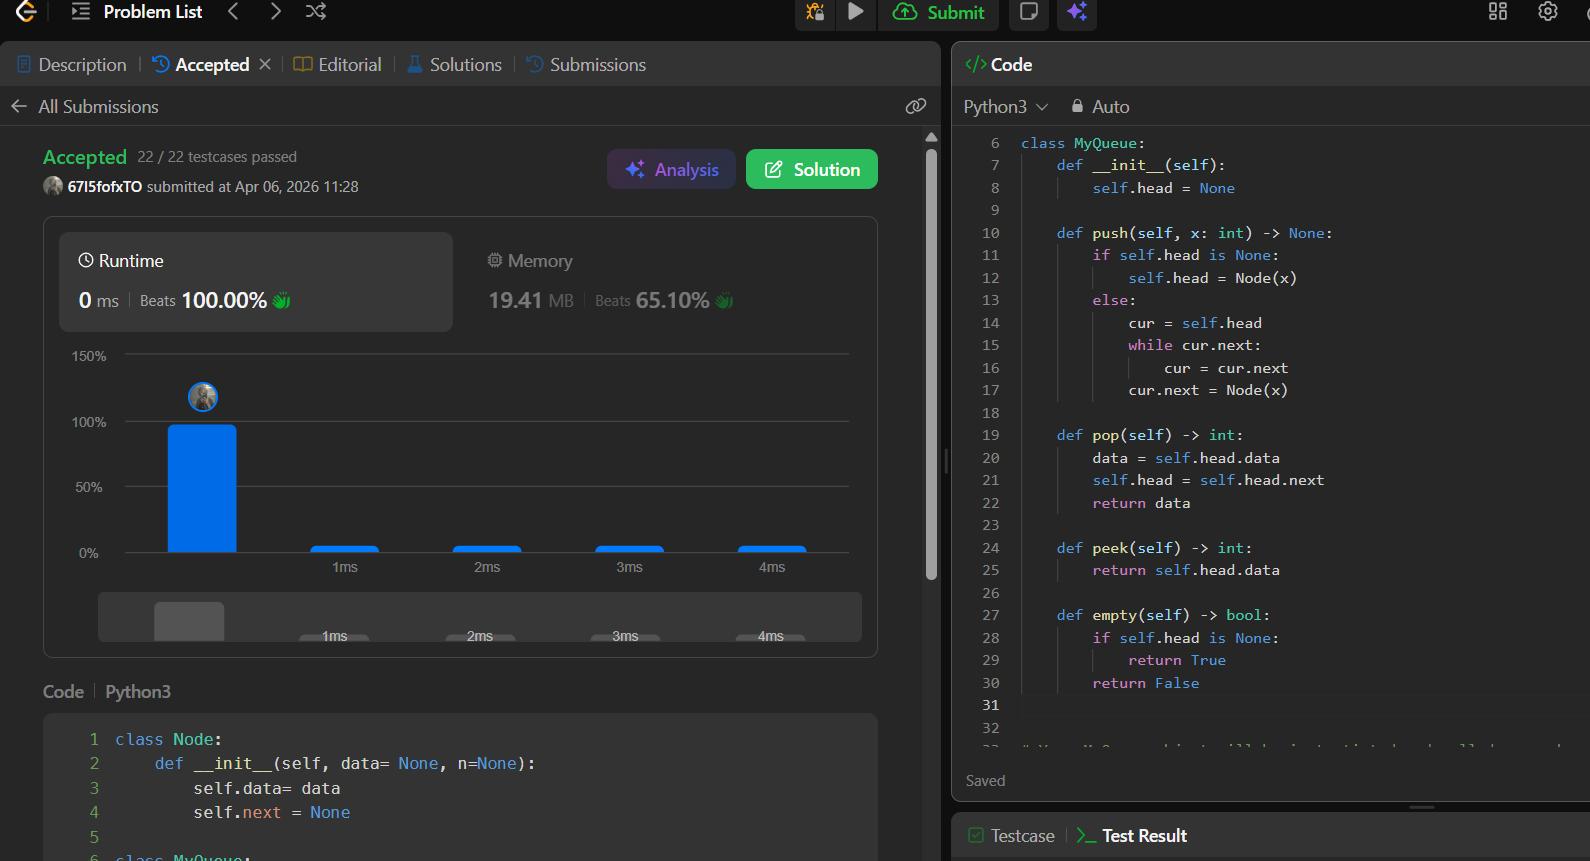
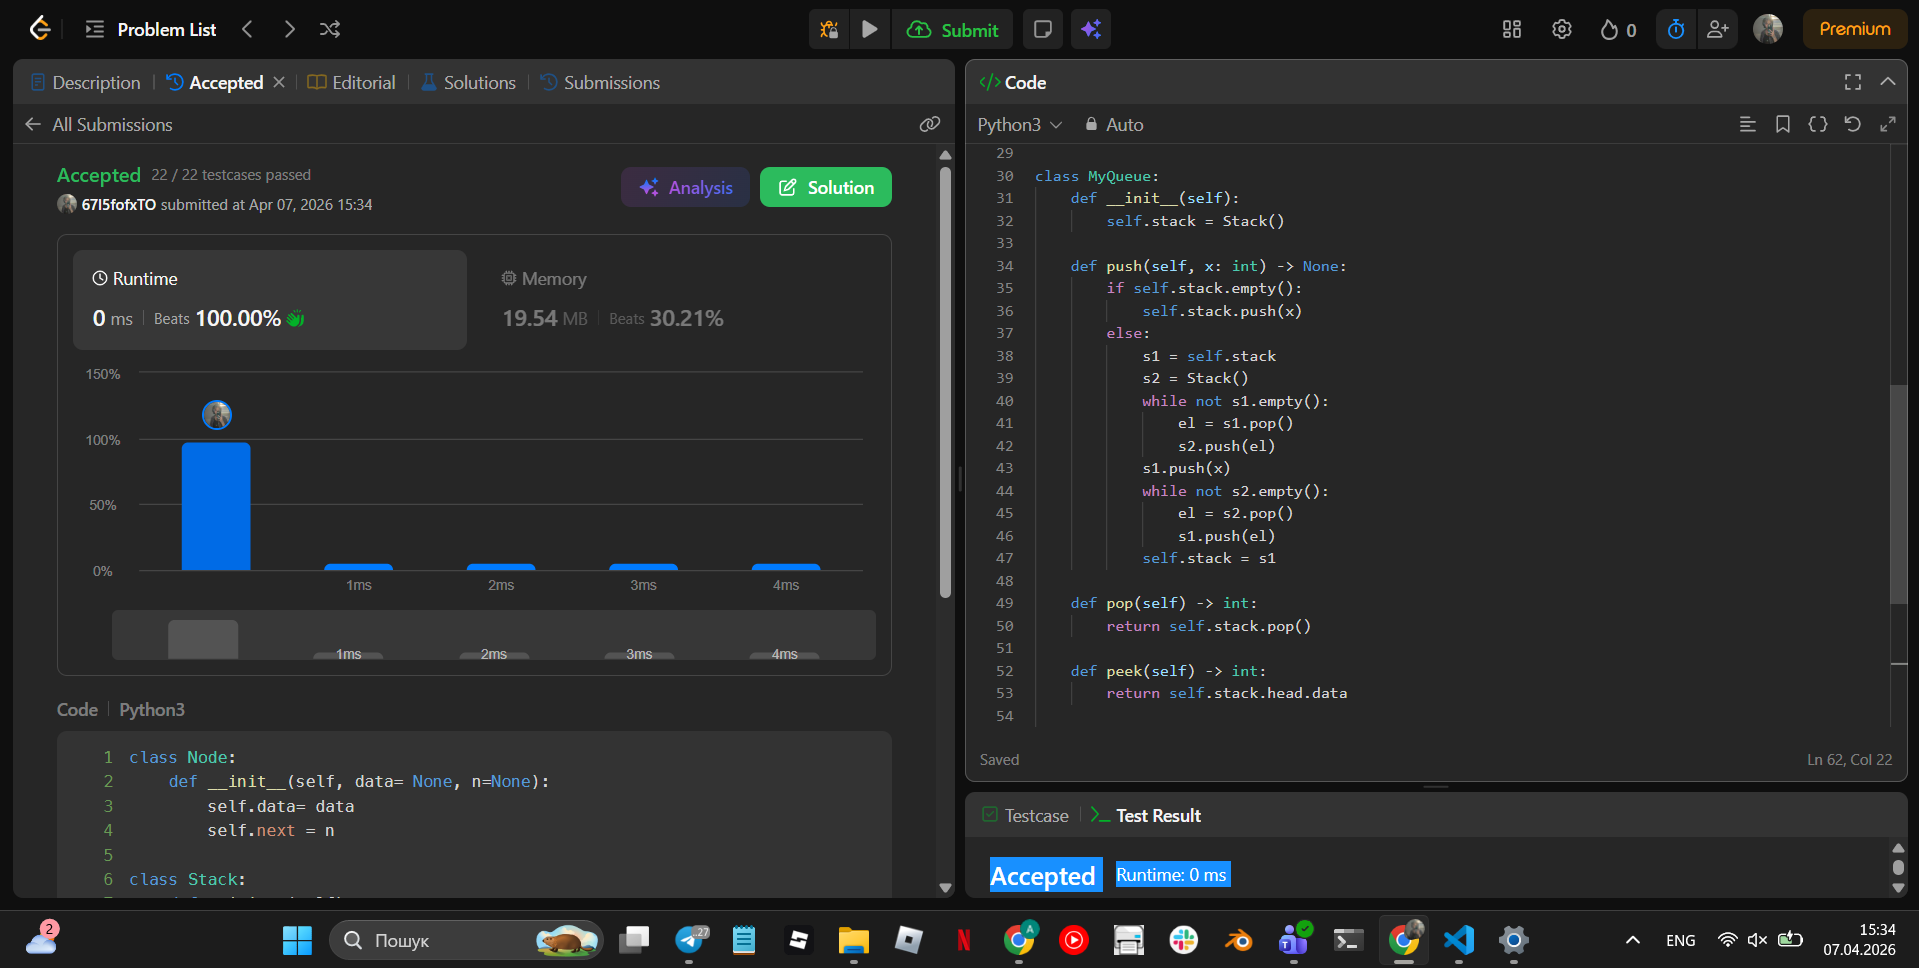
redo task 1 solution

diff --git a/Implement Queue using Stacks/task.py b/Implement Queue using Stacks/task.py
@@ -1,33 +1,59 @@
 class Node:
     def __init__(self, data= None, n=None):
         self.data= data
-        self.next = None
+        self.next = n
 
-class MyQueue:
+class Stack:
     def __init__(self):
         self.head = None
 
     def push(self, x: int) -> None:
-        if self.head is None:
-            self.head = Node(x)
-        else:
-            cur = self.head
-            while cur.next:
-                cur = cur.next
-            cur.next = Node(x)
+        new_node = Node(x)
+        new_node.next = self.head
+        self.head = new_node
 
     def pop(self) -> int:
+        if self.empty():
+            raise IndexError("pop from empty stack")
         data = self.head.data
         self.head = self.head.next
         return data
 
     def peek(self) -> int:
+        if self.empty():
+            raise IndexError("peek from empty stack")
         return self.head.data
 
     def empty(self) -> bool:
-        if self.head is None:
-            return True
-        return False
+        return self.head is None
+
+class MyQueue:
+    def __init__(self):
+        self.stack = Stack()
+
+    def push(self, x: int) -> None:
+        if self.stack.empty():
+            self.stack.push(x)
+        else:
+            s1 = self.stack
+            s2 = Stack()
+            while not s1.empty():
+                el = s1.pop()
+                s2.push(el)
+            s1.push(x)
+            while not s2.empty():
+                el = s2.pop()
+                s1.push(el)
+            self.stack = s1
+
+    def pop(self) -> int:
+        return self.stack.pop()
+
+    def peek(self) -> int:
+        return self.stack.head.data
+
+    def empty(self) -> bool:
+        return self.stack.empty()
 
 
 # Your MyQueue object will be instantiated and called as such:
